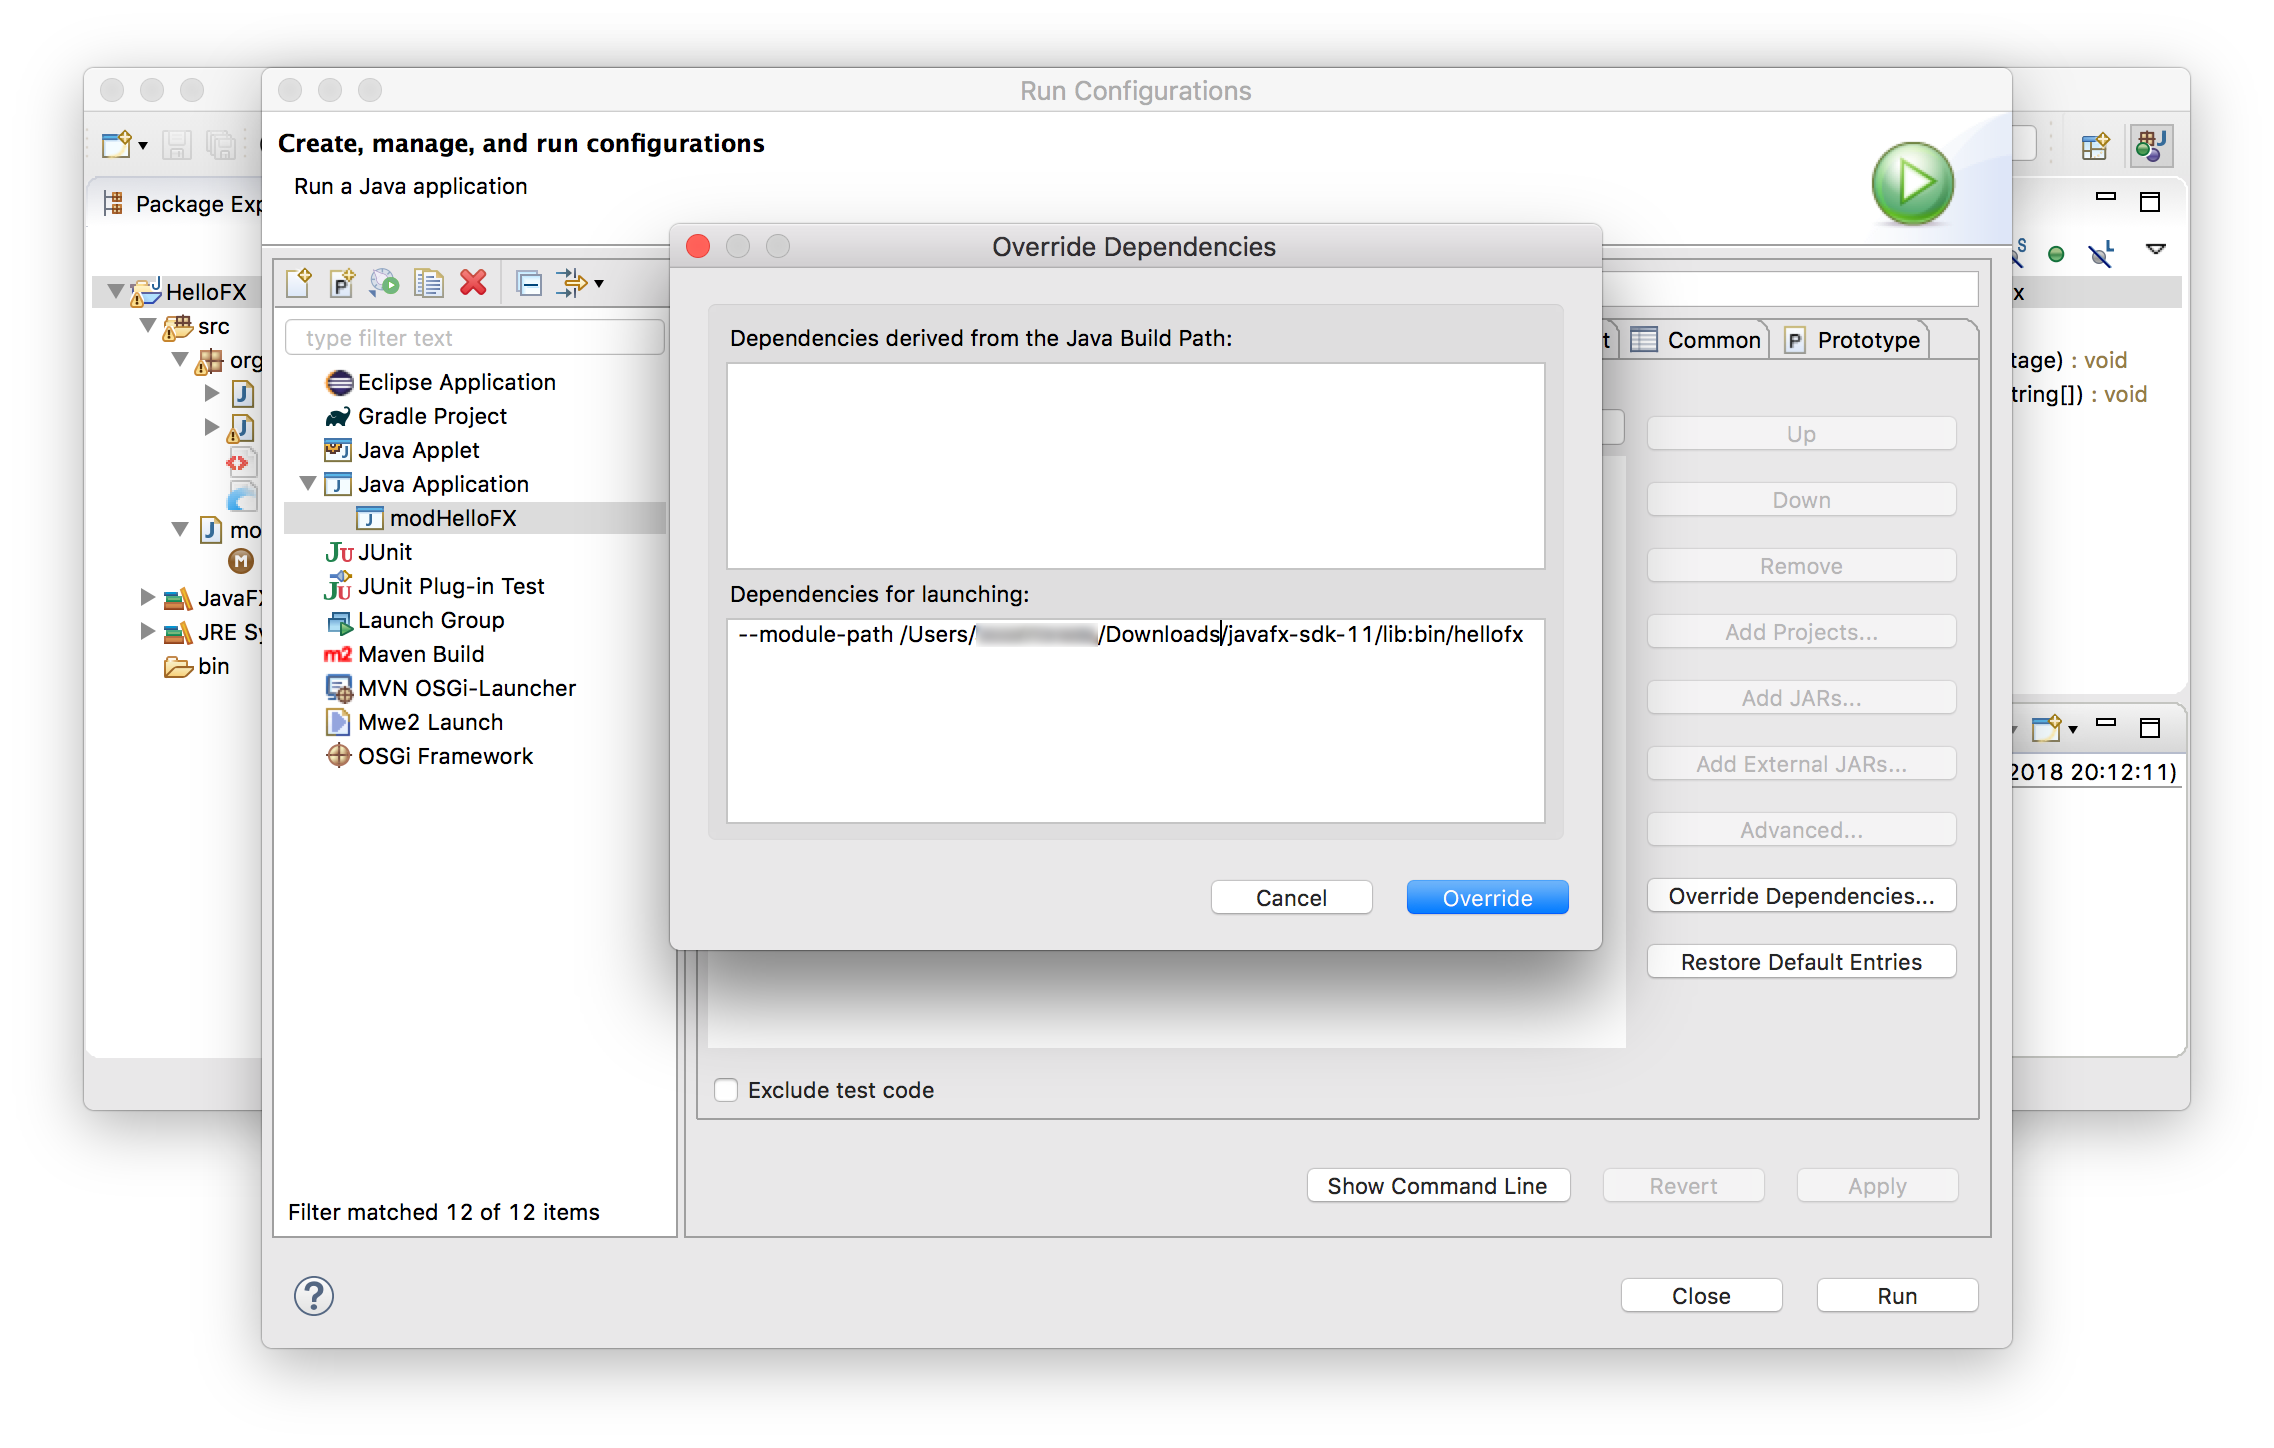
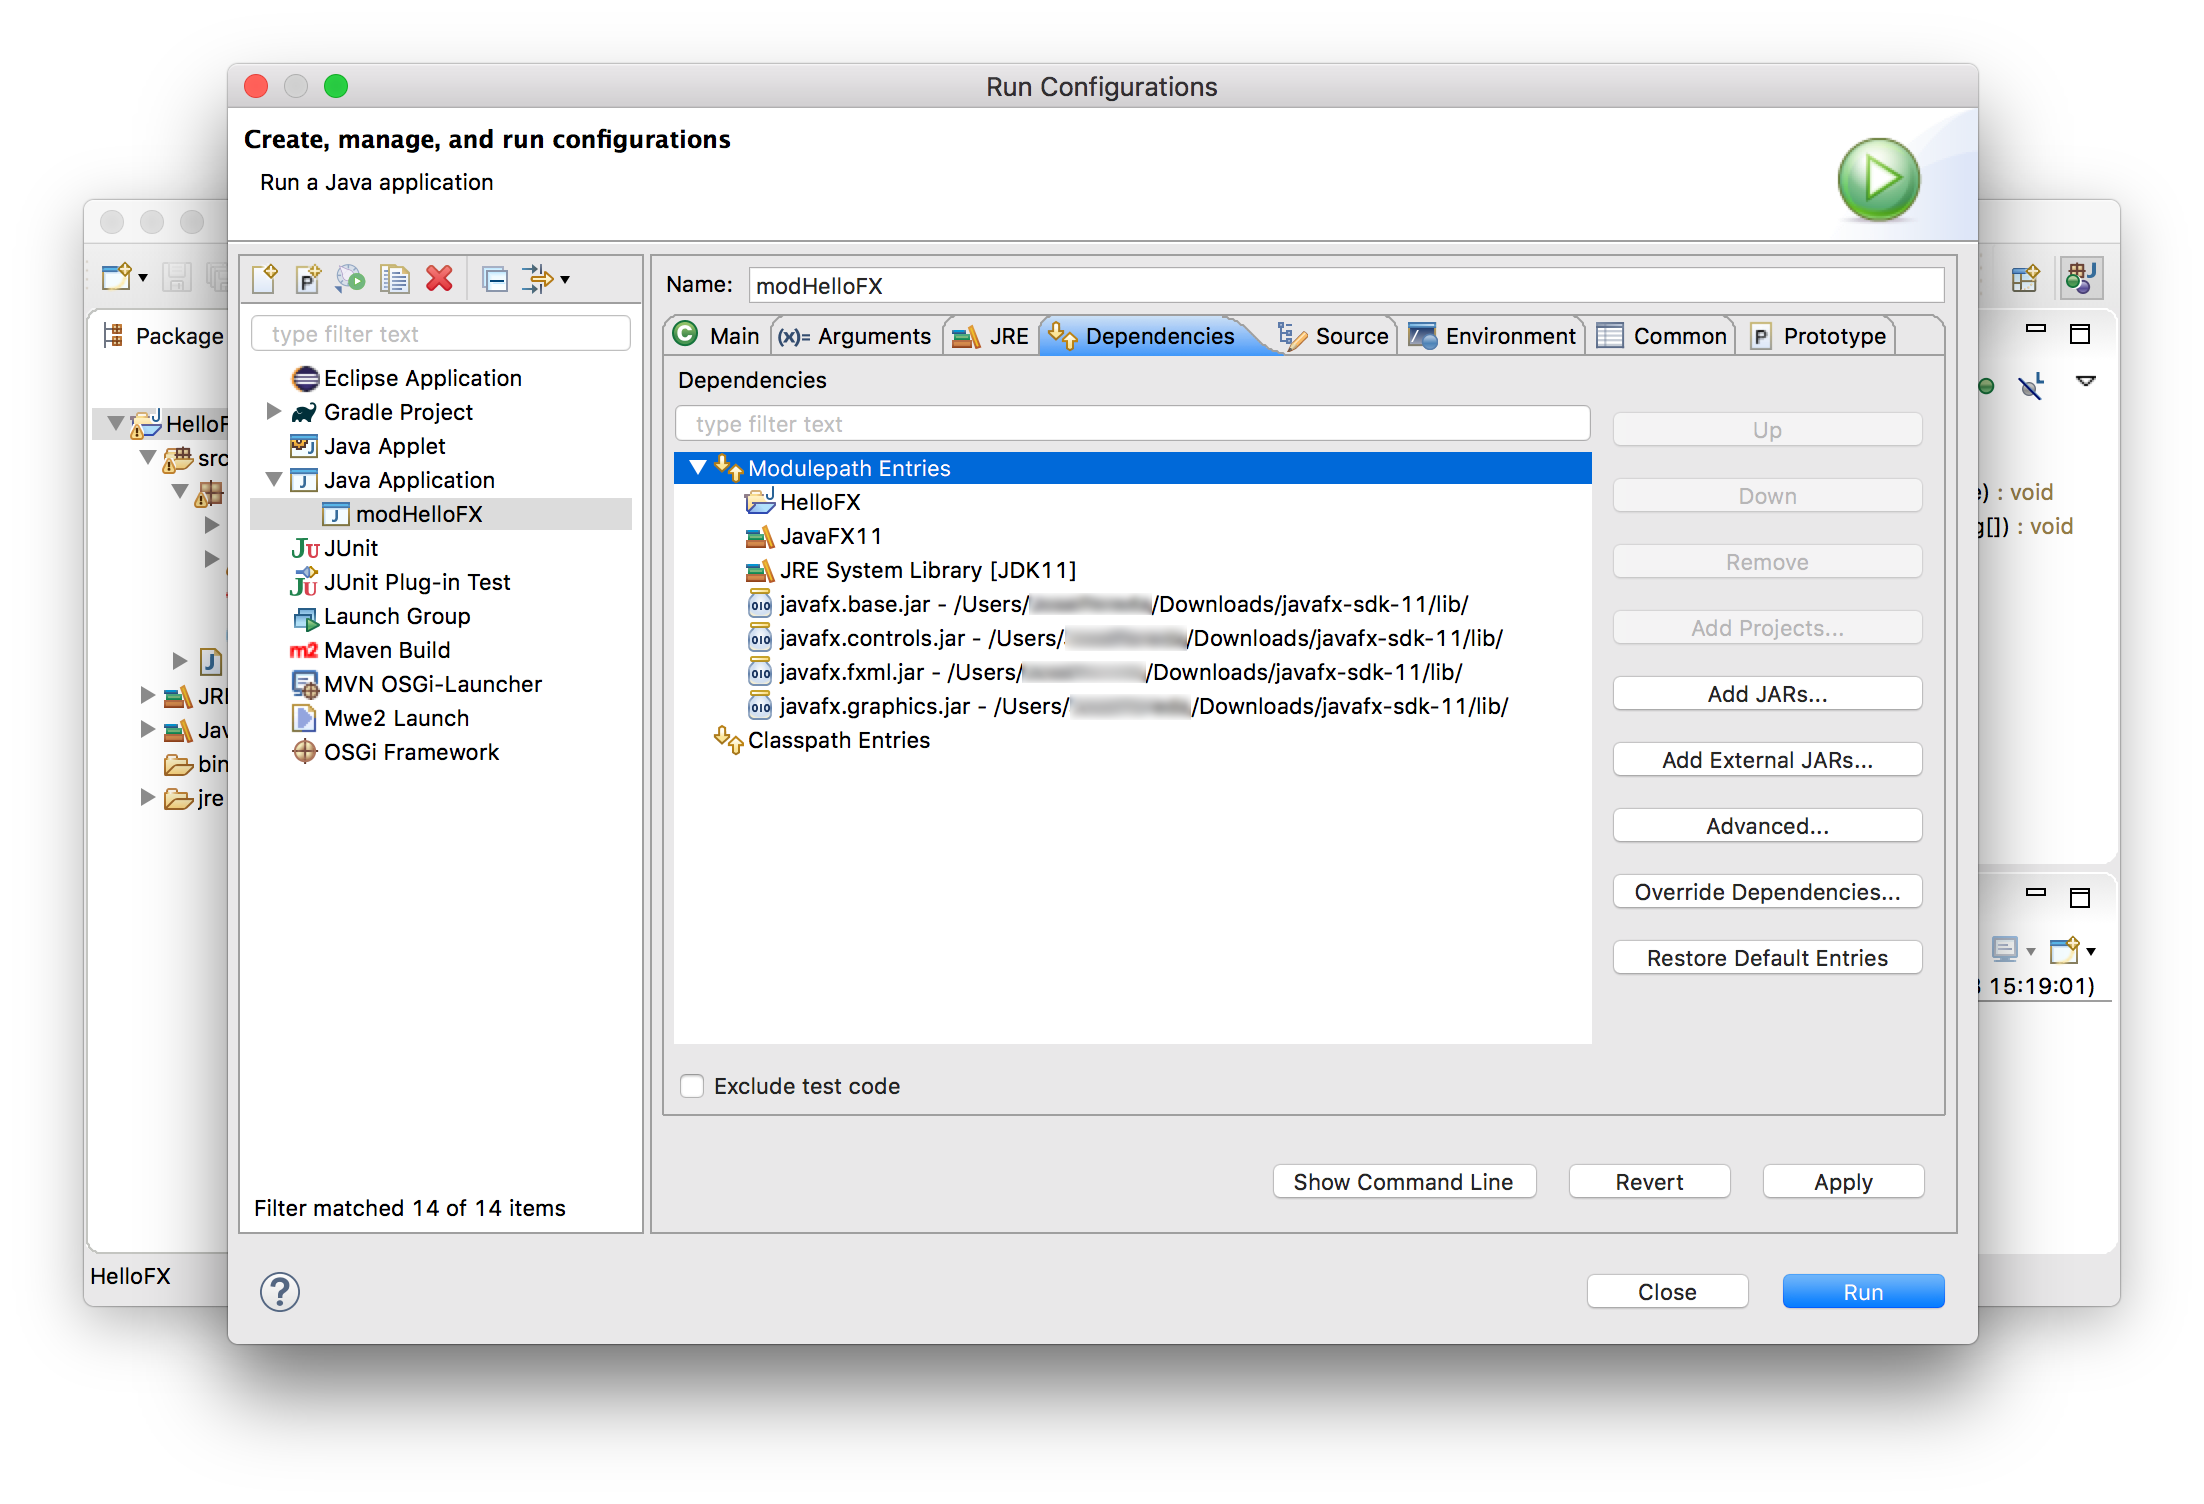
#29: Modify Eclipse-modular project on IDE doc

Changed region(s): [[0.0309, 0.0311, 0.9873, 0.9323], [0.5862, 0.7769, 0.6788, 0.8391], [0.7713, 0.2797, 0.8022, 0.3108]]

diff --git a/ide-eclipse.html b/ide-eclipse.html
@@ -479,46 +479,26 @@ The type Stage from module javafx.graphics may not be accessible to clients due 
 
 <div class="alert alert-danger">
     <strong>Warning: </strong>
-    If you run the project without any options, you will get an exception:
+    If you run the project without any options, you might get an exception:
 
 <pre class="alert"><code class="alert big">
 Error occurred during initialization of boot layer
 java.lang.module.FindException: Module javafx.graphics not found, required by hellofx
 </code></pre>
+    
+    This exception happens because the Eclipse ant task doesn't add the User Library <kbd>JavaFX11</kbd> 
+    to the <kbd>module-path</kbd>. 
 </div>
 
 <p>
-    This exception happens because the Eclipse ant task overrides the <kbd>module-path</kbd>.
-    
-    To prevent this issue click on <kbd>Run -> Run Configurations... -> Java Application -> Dependencies</kbd>, 
-    select <kbd>Override Dependencies...</kbd>, and add:
+    This issue has been fixed starting with Eclipse <a href="https://www.eclipse.org/downloads/packages/release/2018-12/m2">2018-12</a> 
+    (4.10.0M2 Build id: 20181108-1653).
 </p>
+<p> 
+    For older versions, this can be solved by adding the JavaFX required jars directly to the module path in
+    <kbd>Run -> Run Configurations... -> Java Application -> Dependencies</kbd>.
 
-<ul class="nav nav-tabs">
-    <li class="nav-item">
-        <a class="nav-link active" href="#nix-eclipse-mod-ide-1" data-toggle="tab">Linux/Mac</a>
-    </li>
-    <li class="nav-item">
-        <a class="nav-link" href="#win-eclipse-mod-ide-1" data-toggle="tab">Windows</a>
-    </li>
-</ul>
-<div class="tab-content">
-    <div class="tab-pane active" id="nix-eclipse-mod-ide-1">
-<pre class="no-border-radius"><code>
---module-path /path/to/javafx-sdk-11/lib:bin/hellofx
-</code></pre>
-    </div>
-    <div class="tab-pane" id="win-eclipse-mod-ide-1">
-<pre><code>
---module-path "\path\to\javafx-sdk-11\lib;bin\hellofx"
-</code></pre>
-    </div>
-</div>
-    
-<p>    
-    <a href="images/ide/eclipse/modular/ide/eclipse02.png" target="_blank"><img src="images/ide/eclipse/modular/ide/eclipse02.png" alt="Override dependencies"/></a>
-
-    and press <kbd>Override</kbd>. Note also that environment variables are not permitted.    
+    <a href="images/ide/eclipse/modular/ide/eclipse02.png" target="_blank"><img src="images/ide/eclipse/modular/ide/eclipse02.png" alt="Add required dependencies"/></a>
 </p>
 
 <h5>5. Run the project</h5>
